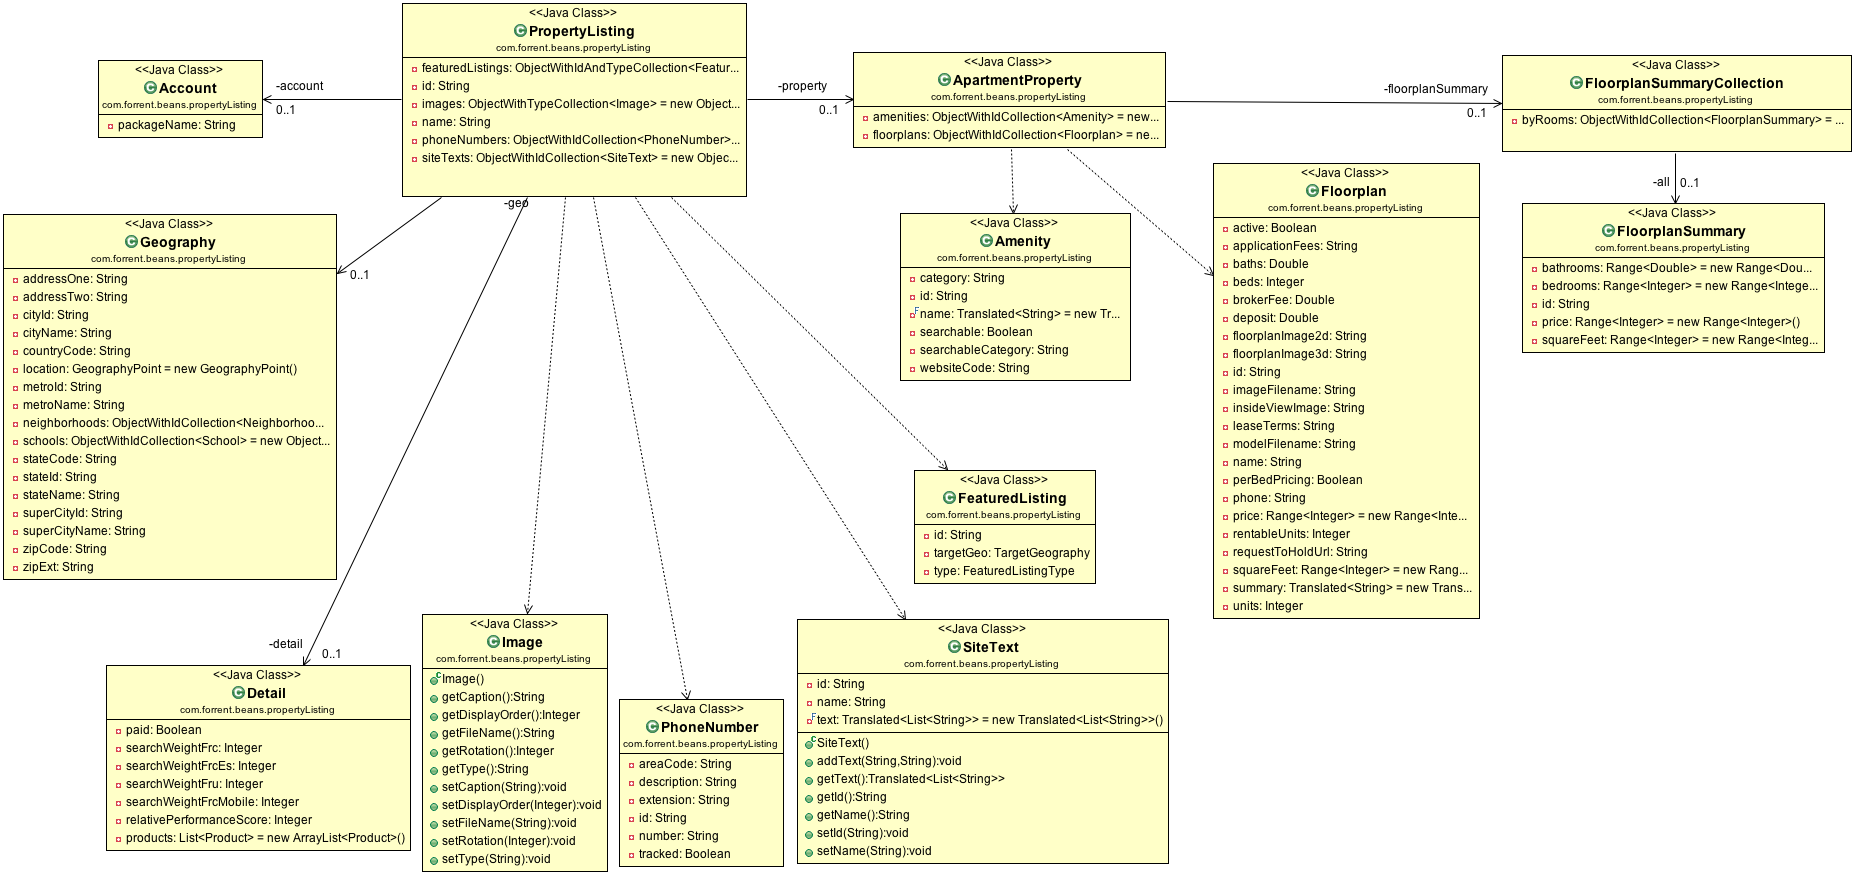
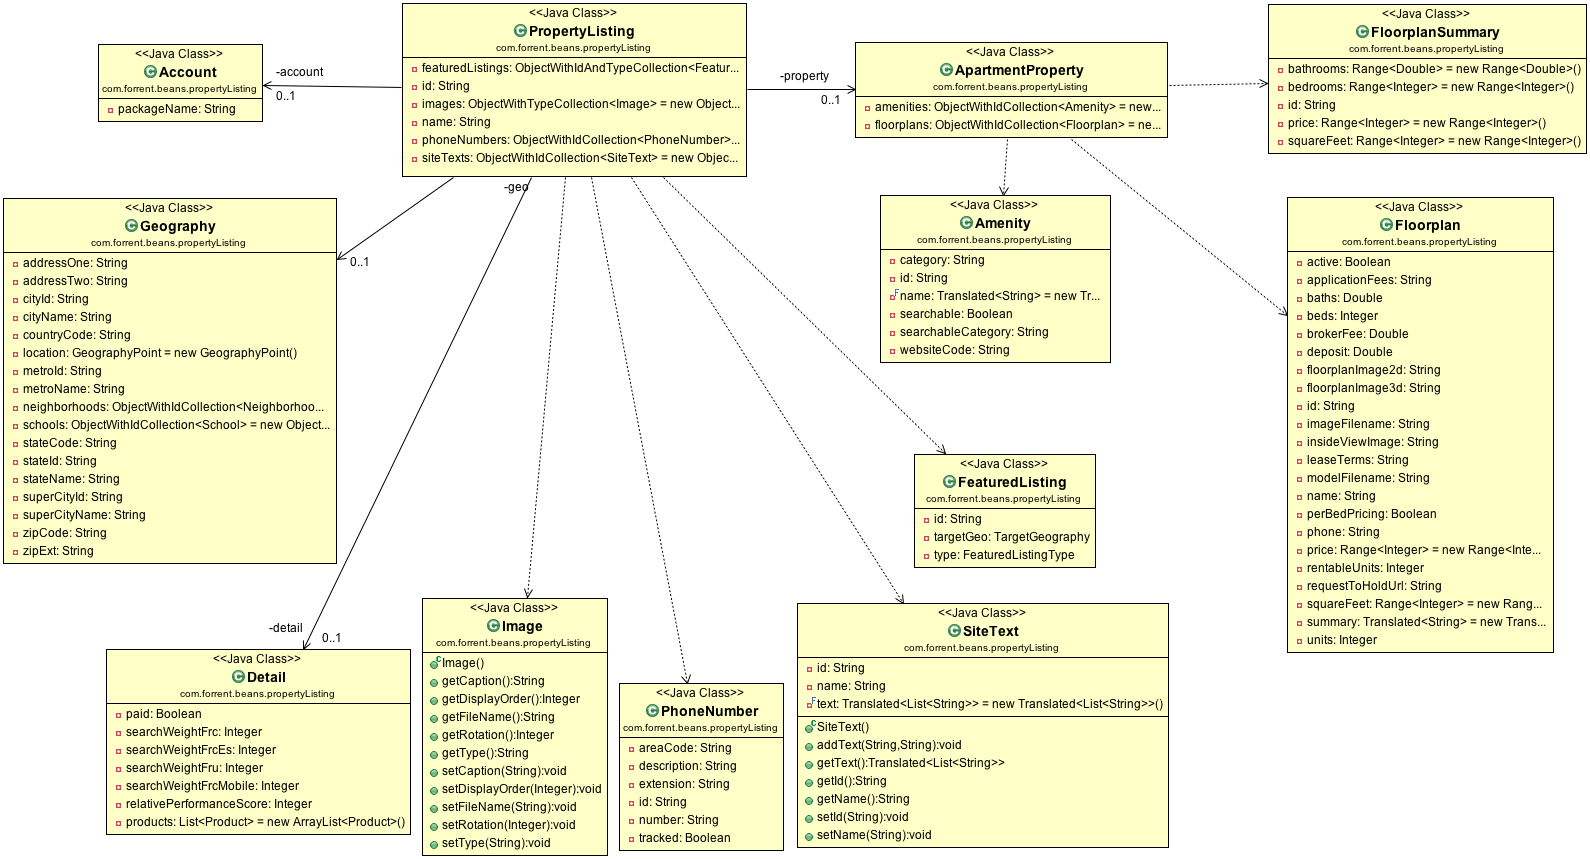
combine floorplan summaries

diff --git a/src/main/java/com/forrent/beans/propertyListing/ApartmentProperty.java b/src/main/java/com/forrent/beans/propertyListing/ApartmentProperty.java
@@ -7,7 +7,7 @@ public class ApartmentProperty implements Serializable
 {
     private ObjectWithIdCollection<Amenity> amenities = new ObjectWithIdCollection<Amenity>();
     private ObjectWithIdCollection<Floorplan> floorplans  = new ObjectWithIdCollection<Floorplan>();
-    private FloorplanSummaryCollection floorplanSummary = new FloorplanSummaryCollection();
+    private ObjectWithIdCollection<FloorplanSummary> floorplanSummaries = new ObjectWithIdCollection<FloorplanSummary>();
 
     public ObjectWithIdCollection<Amenity> getAmenities() {
         return this.amenities;
@@ -17,8 +17,8 @@ public class ApartmentProperty implements Serializable
         return this.floorplans;
     }
 
-    public FloorplanSummaryCollection getFloorplanSummary() {
-        return this.floorplanSummary;
+    public ObjectWithIdCollection<FloorplanSummary> getFloorplanSummaries() {
+        return this.floorplanSummaries;
     }
 
     public void setAmenities(final ObjectWithIdCollection<Amenity> amenities) {
@@ -29,7 +29,7 @@ public class ApartmentProperty implements Serializable
         this.floorplans = floorplans;
     }
 
-    public void setFloorplanSummary(final FloorplanSummaryCollection floorplanSummary) {
-        this.floorplanSummary = floorplanSummary;
+    public void setFloorplanSummaries(final ObjectWithIdCollection<FloorplanSummary> floorplanSummary) {
+        this.floorplanSummaries = floorplanSummary;
     }
 }

diff --git a/src/main/java/com/forrent/beans/propertyListing/FloorplanSummary.java b/src/main/java/com/forrent/beans/propertyListing/FloorplanSummary.java
@@ -5,6 +5,8 @@ import java.io.Serializable;
 @SuppressWarnings("serial")
 public class FloorplanSummary implements IObjectWithId, Serializable
 {
+    public static final String ALL_ID = "ALL";
+
     private Range<Double> bathrooms = new Range<Double>();
     private Range<Integer> bedrooms = new Range<Integer>();
     private String id;

diff --git a/src/main/java/com/forrent/beans/propertyListing/ObjectWithIdCollection.java b/src/main/java/com/forrent/beans/propertyListing/ObjectWithIdCollection.java
@@ -32,6 +32,13 @@ public class ObjectWithIdCollection<T extends IObjectWithId>
         }
     }
 
+    public void putAll(final List<T> objects)
+    {
+        for(final T object : objects) {
+            this.put(object);
+        }
+    }
+
     /**
      * Get object by id.
      */
